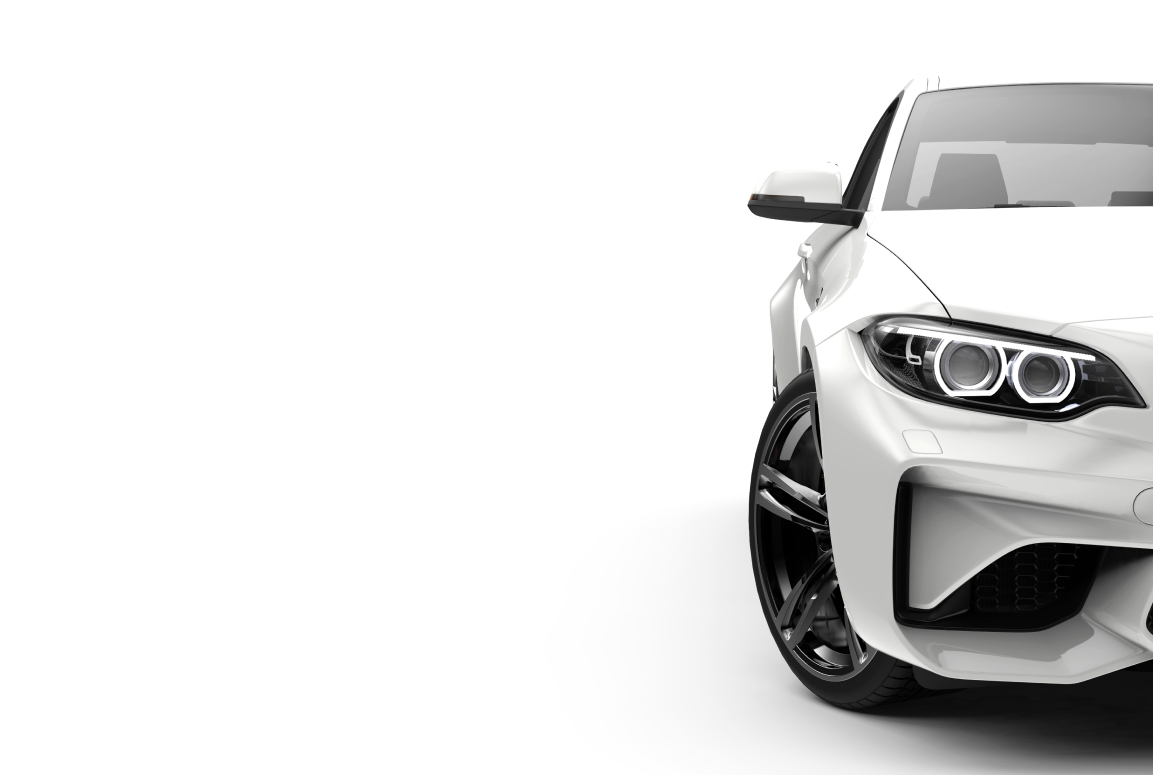
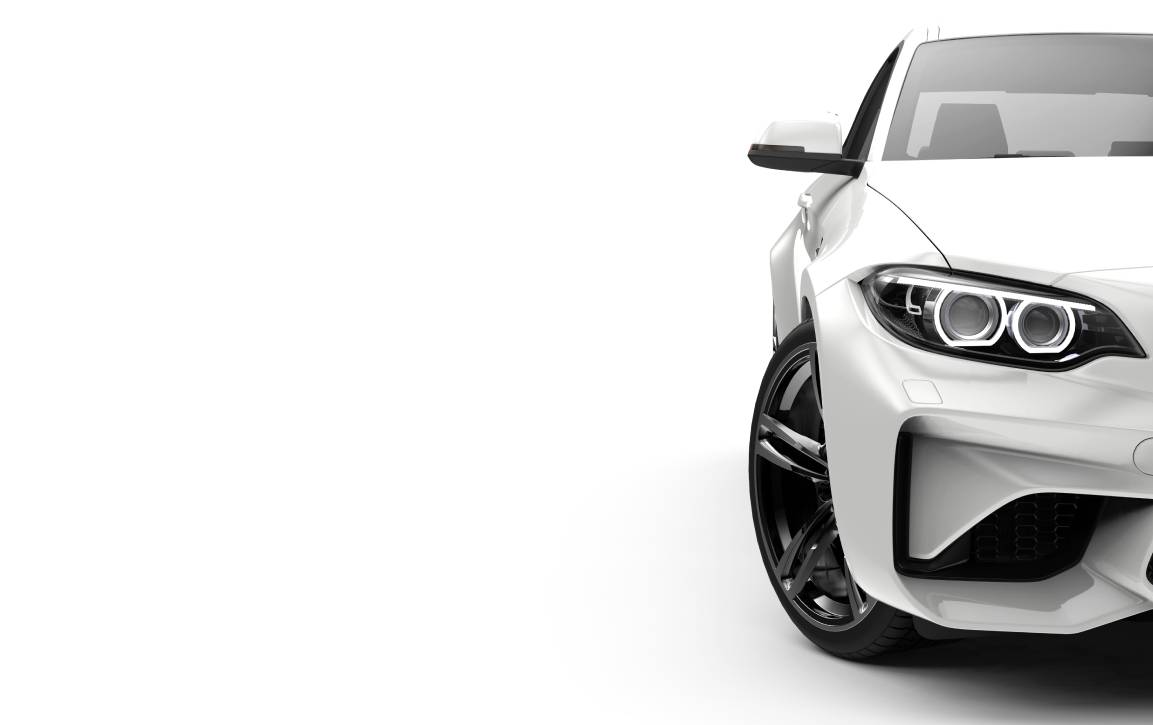
Add header + promo.

Changed region(s): [[0.6245, 0.0303, 1.0, 0.9103], [0.7181, 0.9103, 0.8118, 0.9407]]

diff --git a/public/css/main.css b/public/css/main.css
@@ -180,6 +180,27 @@ a {
   transform: rotate(-45deg);
 }
 
+.btn-black {
+  display: inline-block;
+  padding: 0;
+  background: none;
+  border: 0;
+  cursor: pointer;
+  min-width: 25rem;
+  background: linear-gradient(90deg, #000000 0%, #434343 100%);
+  padding: 1.4rem 3rem 1.8rem 3rem;
+  font-family: "Arial Black";
+  font-weight: 900;
+  font-size: 2rem;
+  line-height: 1.4;
+  text-align: center;
+  letter-spacing: 0.085em;
+  color: #ffffff;
+}
+.btn-black:hover {
+  background-size: 120% auto;
+}
+
 .page__center {
   padding: 0 var(--side-padding);
   box-sizing: content-box;
@@ -290,6 +311,33 @@ a {
   color: #ffffff;
 }
 
+.header {
+  padding-top: 2.1rem;
+  padding-bottom: 2.7rem;
+  background: linear-gradient(90deg, #000000 0%, #434343 100%);
+}
+.header__btn-burger {
+  display: none;
+}
+
+.nav-top ul {
+  display: flex;
+  justify-content: center;
+}
+.nav-top li {
+  margin: 0 6rem;
+}
+.nav-top li.active a, .nav-top li:hover a {
+  color: #fe9149;
+}
+.nav-top a {
+  font-family: "Arial Black";
+  font-weight: 900;
+  font-size: 2rem;
+  line-height: 1.4;
+  color: #ffffff;
+}
+
 .about {
   position: relative;
   background: linear-gradient(90deg, #000000 0%, #434343 100%);
@@ -327,4 +375,34 @@ a {
 }
 .article ul li:last-child {
   margin-bottom: 0;
+}
+
+.promo {
+  padding-bottom: 20rem;
+  padding-top: 22rem;
+  background: url(../img/promo/1.jpeg) no-repeat 100% 50%/auto 100%;
+  text-align: center;
+}
+.promo__logo {
+  position: relative;
+  max-width: 54.6rem;
+  display: block;
+  margin: 0 auto;
+}
+.promo__logo:before {
+  content: " ";
+  padding-top: 22.7106227106%;
+  display: block;
+}
+.promo__logo img {
+  position: absolute;
+  top: 0;
+  left: 0;
+  width: 100%;
+  height: 100%;
+  -o-object-fit: cover;
+     object-fit: cover;
+}
+.promo__desc {
+  margin-top: 12rem;
 }

diff --git a/public/index.html b/public/index.html
@@ -22,7 +22,7 @@
 
 
 
-        <link rel="stylesheet" href="css/main.css?t=1677771546486" />
+        <link rel="stylesheet" href="css/main.css?t=1677779877969" />
     </head>
 
     <body>
@@ -37,14 +37,16 @@
                         <li><a href="#">О компании</a></li>
                         <li><a href="#">Продукция</a></li>
                         <li><a href="#">Контакты</a></li>
-                        <li><a href="#">Реквизиты</a></li>
+                        <li class="active"><a href="#">Реквизиты</a></li>
                     </ul>
                 </nav>
             </div>
         </div>
-        <button class="btn-burger js-nav-mobile-open">
-            <span><i></i><i></i><i></i></span>
-        </button>
+        <div class="header__btn-burger">
+            <button class="btn-burger js-nav-mobile-open">
+                <span><i></i><i></i><i></i></span>
+            </button>
+        </div>
     </header>
     <!-- /header -->
 
@@ -232,7 +234,7 @@
 
 
 
-        <script src="js/main.js?t=1677771546486"></script>
+        <script src="js/main.js?t=1677779877969"></script>
 
         <div id="notify" class="notify"></div>
 

diff --git a/src/markup/index.html b/src/markup/index.html
@@ -22,14 +22,16 @@
                         <li><a href="#">О компании</a></li>
                         <li><a href="#">Продукция</a></li>
                         <li><a href="#">Контакты</a></li>
-                        <li><a href="#">Реквизиты</a></li>
+                        <li class="active"><a href="#">Реквизиты</a></li>
                     </ul>
                 </nav>
             </div>
         </div>
-        <button class="btn-burger js-nav-mobile-open">
-            <span><i></i><i></i><i></i></span>
-        </button>
+        <div class="header__btn-burger">
+            <button class="btn-burger js-nav-mobile-open">
+                <span><i></i><i></i><i></i></span>
+            </button>
+        </div>
     </header>
     <!-- /header -->
 

diff --git a/src/styles/blocks/promo.scss b/src/styles/blocks/promo.scss
@@ -1,0 +1,31 @@
+.promo {
+    padding-bottom: 20rem;
+    padding-top: 22rem;
+    background: url(../img/promo/1.jpeg) no-repeat 100% 50% / auto 100%;
+    text-align: center;
+
+    &__header {
+    }
+
+    &__logo {
+        position: relative;
+        max-width: 54.6rem;
+        display: block;
+        margin: 0 auto;
+
+        &:before {
+            content: " ";
+            padding-top: calc(124 / 546 * 100%);
+            display: block;
+        }
+
+        img {
+            @include fill;
+            object-fit: cover;
+        }
+    }
+
+    &__desc {
+        margin-top: 12rem;
+    }
+}

diff --git a/src/styles/blocks/buttons.scss b/src/styles/blocks/buttons.scss
@@ -44,3 +44,24 @@
         }
     }
 }
+
+.btn-black {
+    @include reset-btn;
+    min-width: 25rem;
+    background: linear-gradient(90deg, #000000 0%, #434343 100%);
+    padding: 1.4rem 3rem 1.8rem 3rem;
+    font-family: "Arial Black";
+    font-weight: 900;
+    font-size: 2rem;
+    line-height: calc(28 / 20);
+    text-align: center;
+    letter-spacing: 0.085em;
+    color: #ffffff;
+
+    &:hover {
+        background-size: 120% auto;
+    }
+}
+
+.btn-arrow {
+}

diff --git a/src/styles/blocks/nav-top.scss b/src/styles/blocks/nav-top.scss
@@ -1,2 +1,25 @@
 .nav-top {
+    ul {
+        display: flex;
+        justify-content: center;
+    }
+
+    li {
+        margin: 0 6rem;
+
+        &.active,
+        &:hover {
+            a {
+                color: #fe9149;
+            }
+        }
+    }
+
+    a {
+        font-family: "Arial Black";
+        font-weight: 900;
+        font-size: 2rem;
+        line-height: calc(28 / 20);
+        color: #ffffff;
+    }
 }

diff --git a/src/styles/blocks/header.scss b/src/styles/blocks/header.scss
@@ -1,0 +1,9 @@
+.header {
+    padding-top: 2.1rem;
+    padding-bottom: 2.7rem;
+    background: linear-gradient(90deg, #000000 0%, #434343 100%);
+
+    &__btn-burger {
+        display: none;
+    }
+}

diff --git a/src/styles/main.scss b/src/styles/main.scss
@@ -50,3 +50,4 @@ a {
 @import "./blocks/nav-top.scss";
 @import "./blocks/about.scss";
 @import "./blocks/article.scss";
+@import "./blocks/promo.scss";
